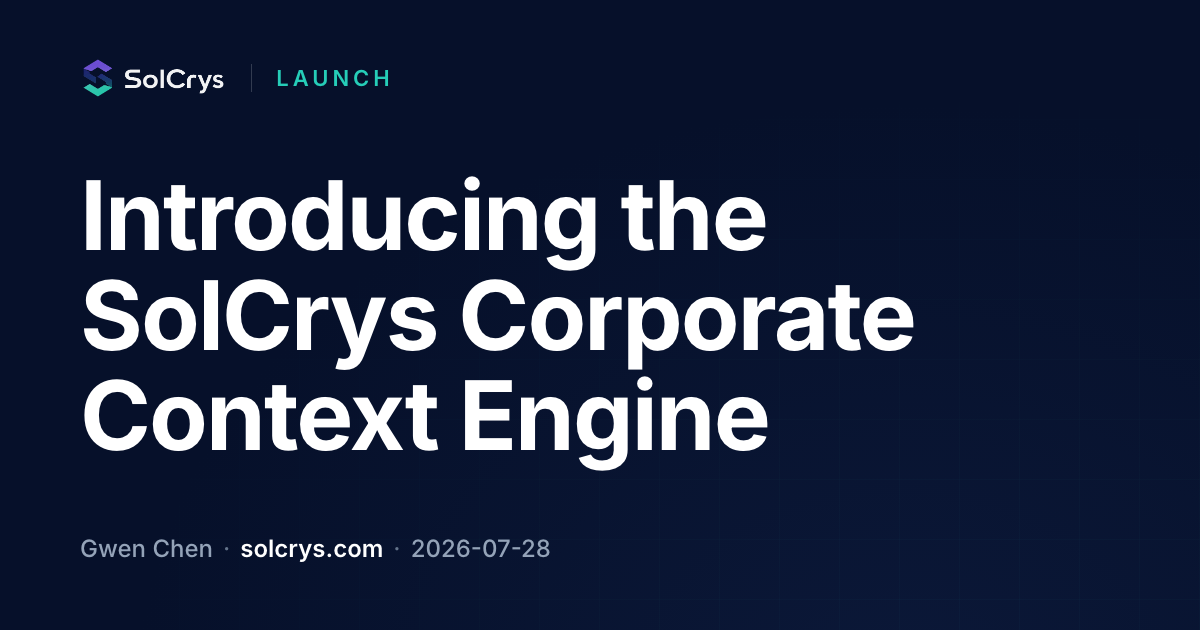
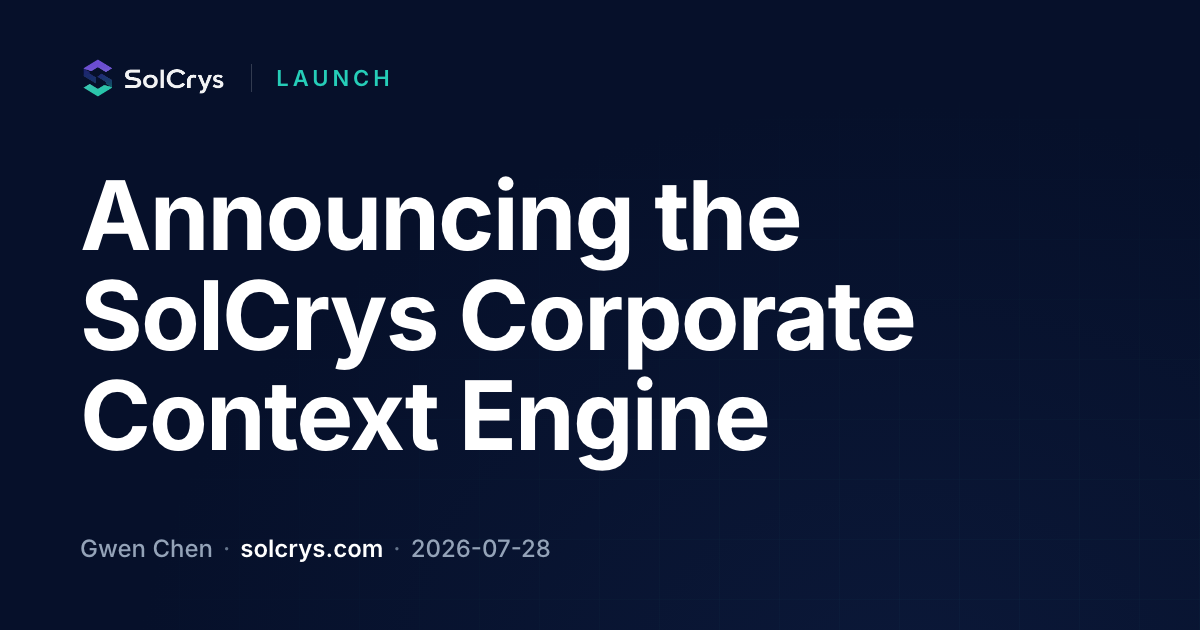
Newsroom: restore Gwen's original announcement text
The published version had been rewritten too heavily against the source
draft. This restores Gwen's original wording verbatim — 26 of 28
paragraphs are now character-identical to the source document — and
keeps only the five agreed adjustments:

- Community Intelligence framed as a product line rather than a Reddit
  feature, with Hacker News / G2 / TrustRadius named as what follows.
- "Recommended Actions" retained (it is the prompt-page surface under
  Deep Analysis, not the Actions Hub page).
- Availability section: both features are on the Custom plan, so the
  in-article CTA points at Custom pricing.
- The lede links to the Answer Accuracy launch announcement.
- "teams could measure" -> "teams can measure" (the surrounding copy is
  present tense).

Straight apostrophes rather than the source document's curly ones, which
matches all four existing newsroom posts.

Title reverts to "Announcing…"; the slug is left unchanged so the live
URL does not break. Lead paragraphs now render inline links in both the
SPA and the prerender path.

Changed region(s): [[0.0617, 0.2714, 0.6783, 0.4524]]

diff --git a/src/pages/NewsArticle.tsx b/src/pages/NewsArticle.tsx
@@ -323,7 +323,7 @@ const NewsArticle = ({ slug: configuredSlug }: NewsArticleProps) => {
 
           {post.leadParagraph ? (
             <p className="text-lg md:text-xl text-foreground leading-relaxed mb-6 font-medium">
-              {post.leadParagraph}
+              {renderInline(post.leadParagraph)}
             </p>
           ) : null}
 
